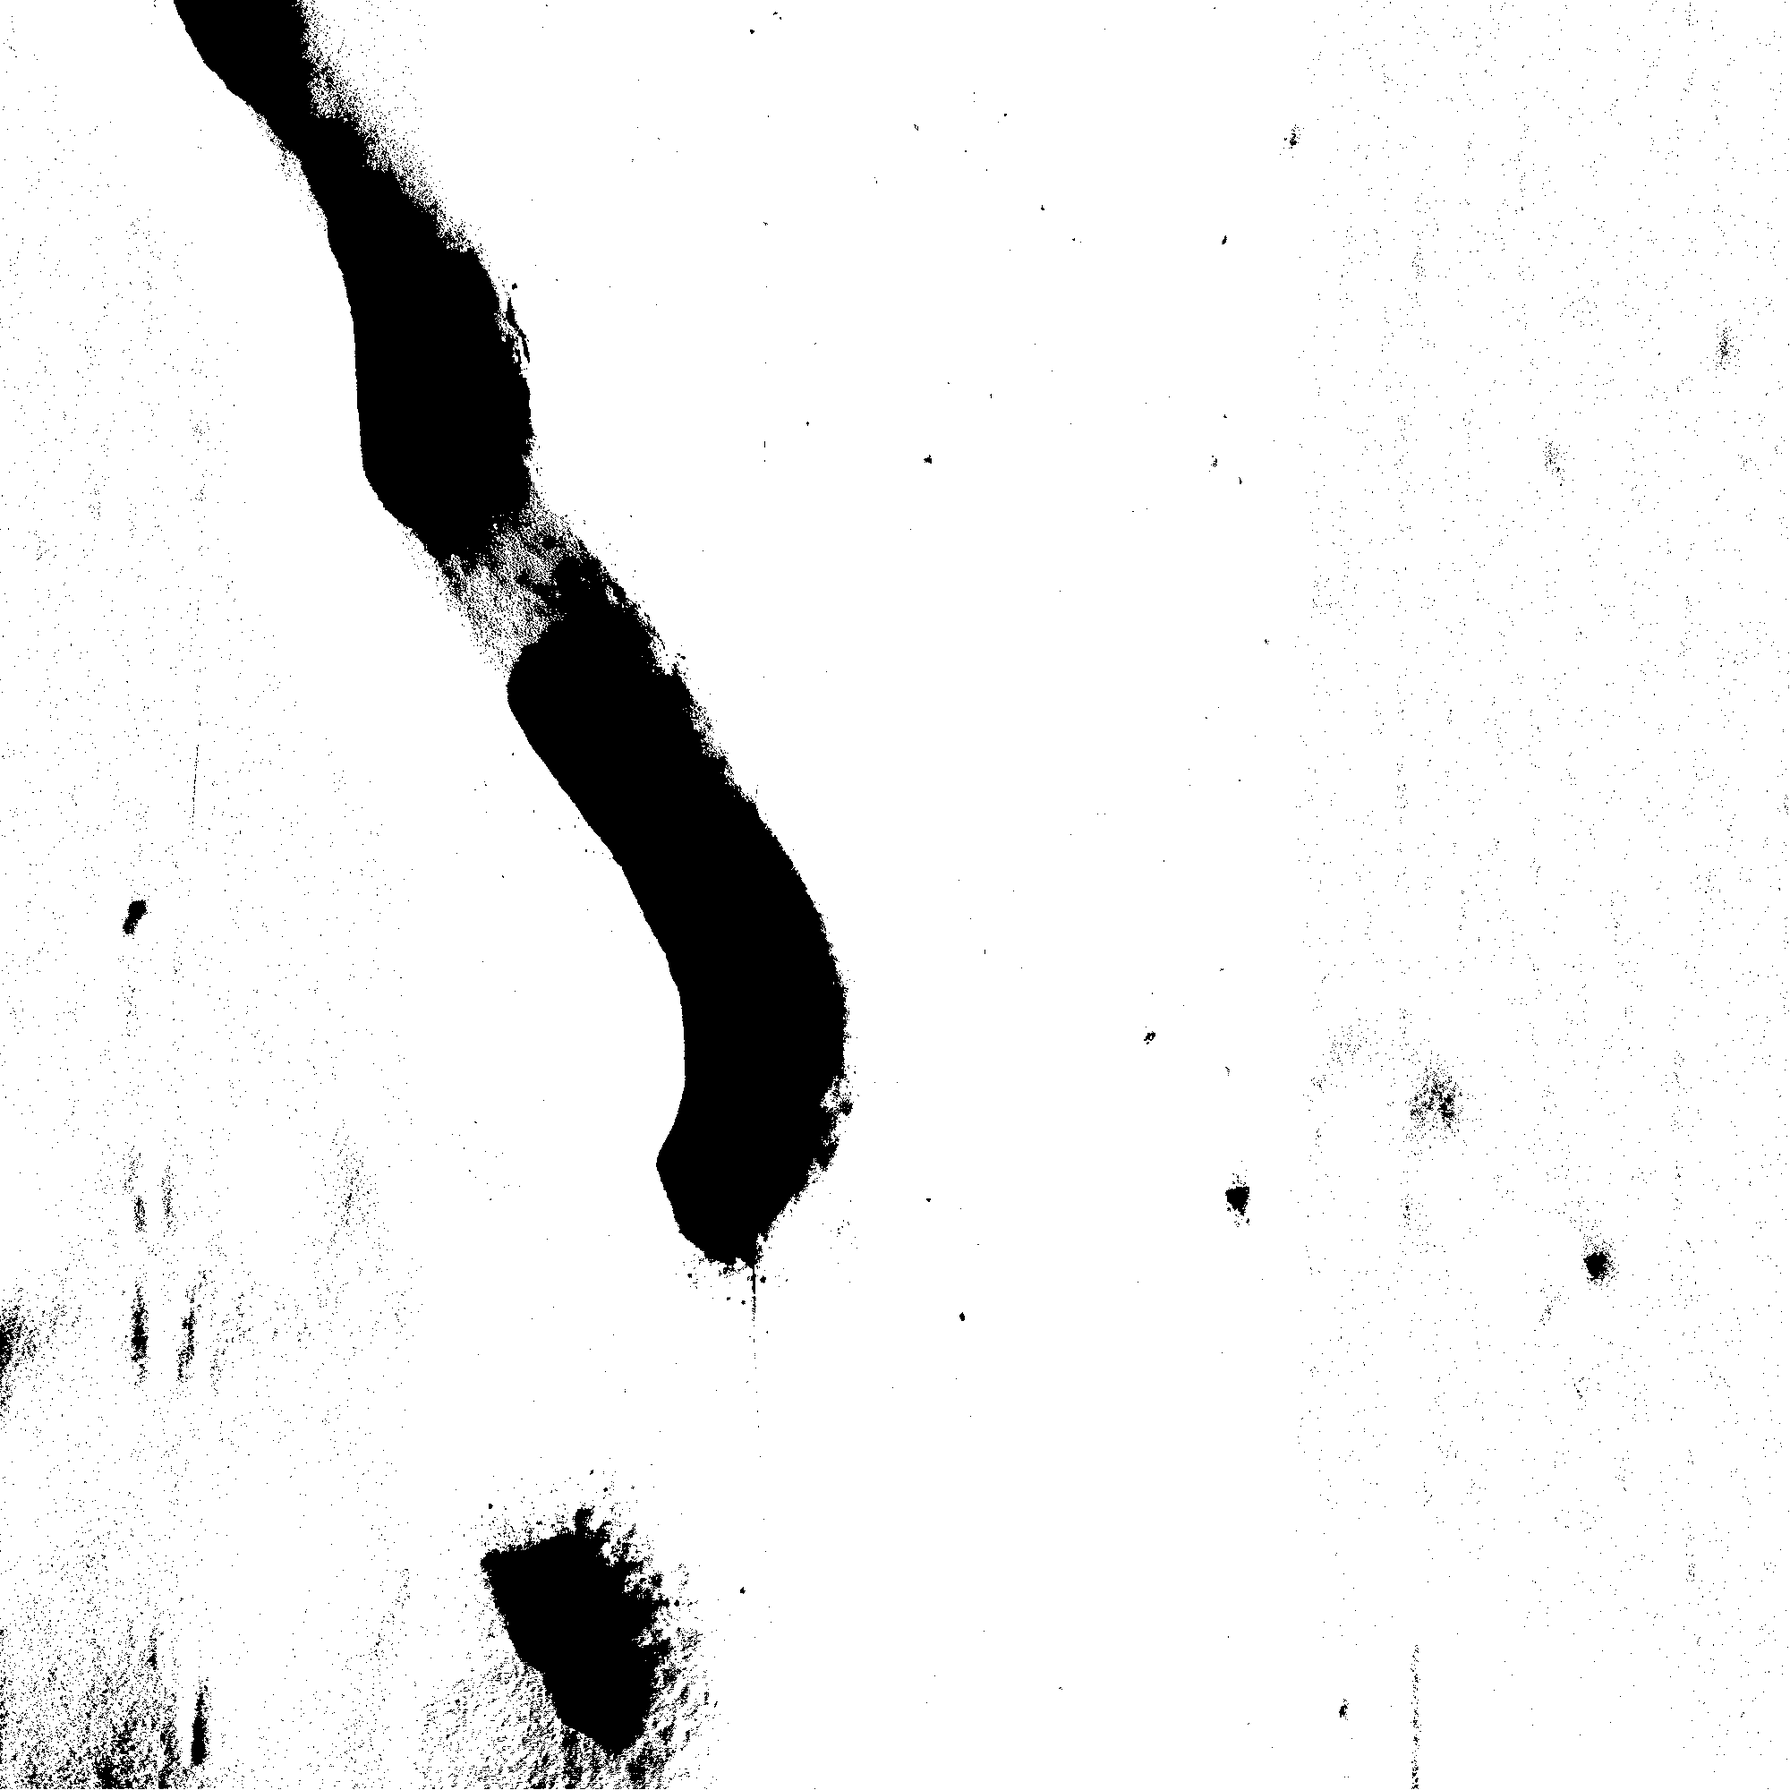
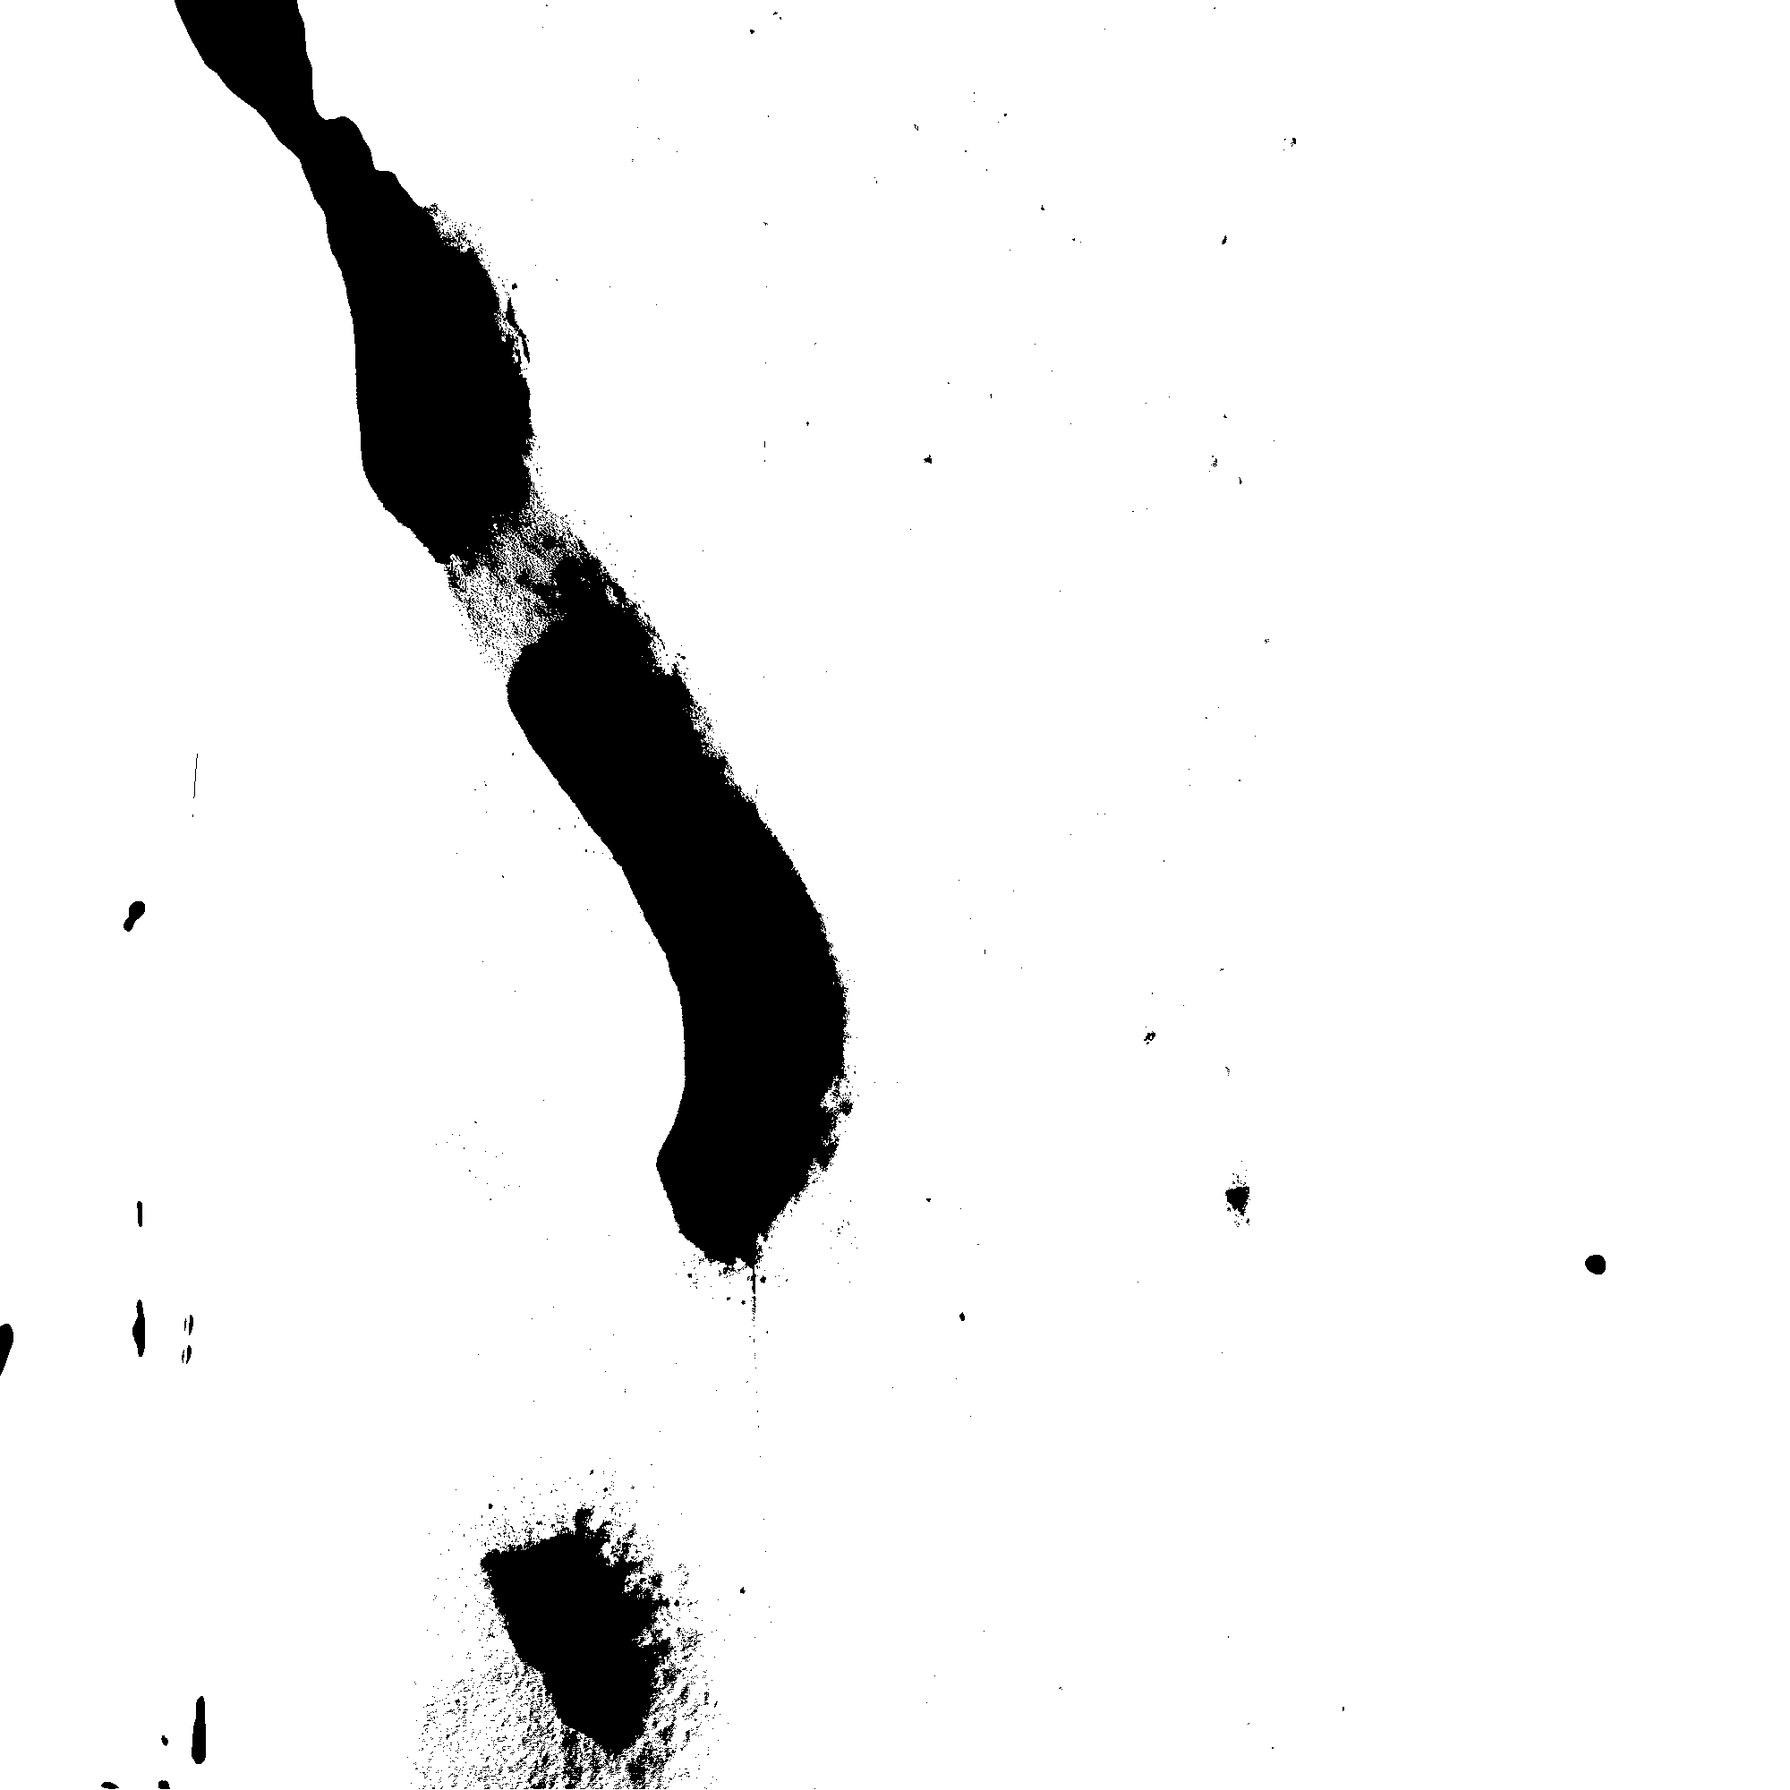
Faster first load: physics chunk in parallel, data preloaded from HTML, 5.7 MB less
- Rapier (4.3 MB with its inlined WebAssembly) is now a separate chunk loaded in
  parallel; the main script went from 5.4 MB to 1.07 MB, so the title screen and
  progress appear at once instead of after ~7 s of a blank page.
- An inline script in index.html starts the terrain downloads (same versioned
  URLs) before any game code arrives; each file is fetched exactly once.
- Lunar heightmap 13.8 -> 8.0 MB: the seeded roughness of the SLDEM-filled
  edges (incompressible noise, 40 % of the file) is generated at run time for
  mesh and physics alike, from a 10 kB DTM-weight map.
Cold load at 20 Mbit/s: everything starts at 0.1 s; data is the only limit.

diff --git a/src/terrain/TerrainData.ts b/src/terrain/TerrainData.ts
@@ -30,6 +30,8 @@ export interface TerrainMeta {
   detail?: { x0: number; z0: number; tile: number; res: number; tiles: string[]; slopes?: boolean };
   /** Surface material map (Mars): 255 = rocky pavement, 0 = sand. */
   material?: { file: string; n: number; pave?: string };
+  /** Run-time roughness where the DTM is missing (SLDEM-filled edges): weight map + std, m. */
+  synthRough?: { file: string; n: number; std: number };
   centerLat: number;
   centerLon: number;
   landing: { x: number; z: number };
@@ -65,6 +67,26 @@ export function hash2(x: number, y: number, seed = 0): number {
   return ((h ^ (h >>> 16)) >>> 0) / 4294967296;
 }
 
+/** Smooth value noise on an integer lattice (C1, quintic fade). */
+function vnoise(x: number, z: number, seed: number): number {
+  const i = Math.floor(x), j = Math.floor(z);
+  const fx = x - i, fz = z - j;
+  const u = fx * fx * fx * (fx * (fx * 6 - 15) + 10), v = fz * fz * fz * (fz * (fz * 6 - 15) + 10);
+  const a = hash2(i, j, seed), b = hash2(i + 1, j, seed), c = hash2(i, j + 1, seed), d = hash2(i + 1, j + 1, seed);
+  return a + (b - a) * u + (c - a) * v + (a - b - c + d) * u * v - 0.5;
+}
+
+/** Roughness octaves 120 m … 4 m, amplitude ∝ λ^1.1 (the DTM's k^-2.2 power spectrum). */
+function roughRaw(x: number, z: number): number {
+  let s = 0, lam = 120, k = 0;
+  while (lam >= 4) {
+    s += vnoise(x / lam + k * 13.7, z / lam - k * 7.1, 900 + k) * Math.pow(lam, 1.1);
+    lam *= 0.5;
+    k++;
+  }
+  return s;
+}
+
 const CRATER_SEED = 1971; // Apollo 15 year
 const CRATER_COUNT = 5500;
 const CRATER_RMIN = 1.2;
@@ -89,10 +111,24 @@ export class TerrainData {
 
   /** Material map over the window (0 sand .. 255 pavement) and the pavement pattern. */
   readonly material: Uint8Array | null;
+  /** DTM weight (0 = SLDEM fill .. 255 = measured DTM) for the run-time roughness. */
+  readonly dtmW: Uint8Array | null;
+  private roughK = 0;
   readonly pave: Uint8Array | null;
 
-  constructor(meta: TerrainMeta, heights: Uint16Array, far: FarGrid | null = null, material: Uint8Array | null = null, pave: Uint8Array | null = null) {
+  constructor(meta: TerrainMeta, heights: Uint16Array, far: FarGrid | null = null, material: Uint8Array | null = null, pave: Uint8Array | null = null, dtmW: Uint8Array | null = null) {
     this.material = material;
+    this.dtmW = dtmW;
+    if (dtmW && meta.synthRough) {
+      // Normalise the octave sum to the DTM's measured roughness (std over random points).
+      let s2 = 0;
+      const r = mulberry32(77);
+      for (let i = 0; i < 4096; i++) {
+        const v = roughRaw((r() - 0.5) * 8000, (r() - 0.5) * 8000);
+        s2 += v * v;
+      }
+      this.roughK = meta.synthRough.std / Math.sqrt(s2 / 4096);
+    }
     this.pave = material ? (pave ?? buildPavement()) : null;
     this.meta = meta;
     this.heights = heights;
@@ -273,6 +309,19 @@ export class TerrainData {
     return (a + (b - a) * fu + (c - a) * fv + (a - b - c + d) * fu * fv) / 255;
   }
 
+  /** Seeded DTM-like roughness (4–120 m) where the DTM is missing, weighted by 1 − DTM weight. */
+  synthRough(x: number, z: number): number {
+    const m = this.dtmW;
+    if (!m || !this.roughK) return 0;
+    const n = this.meta.synthRough!.n;
+    const u = ((x + this.halfX) / this.meta.sizeX) * n - 0.5, v = ((z + this.halfZ) / this.meta.sizeZ) * n - 0.5;
+    const i = Math.max(0, Math.min(n - 2, Math.floor(u))), j = Math.max(0, Math.min(n - 2, Math.floor(v)));
+    const fu = Math.min(1, Math.max(0, u - i)), fv = Math.min(1, Math.max(0, v - j));
+    const a = m[j * n + i], b = m[j * n + i + 1], c = m[(j + 1) * n + i], d = m[(j + 1) * n + i + 1];
+    const w = (a + (b - a) * fu + (c - a) * fv + (a - b - c + d) * fu * fv) / 255;
+    return w >= 0.999 ? 0 : (1 - w) * roughRaw(x, z) * this.roughK;
+  }
+
   /** Centimetre relief of the fractured pavement plates, weighted by the material. */
   microOffset(x: number, z: number): number {
     if (!this.pave) return 0;
@@ -287,7 +336,7 @@ export class TerrainData {
     }
     const w = this.dtmWeight(x, z);
     if (w <= 0) return this.farHeight(x, z);
-    const near = this.dtmHeight(x, z) + this.craterOffset(x, z) + this.microOffset(x, z);
+    const near = this.dtmHeight(x, z) + this.craterOffset(x, z) + this.microOffset(x, z) + this.synthRough(x, z);
     return w >= 1 ? near : near * w + this.farHeight(x, z) * (1 - w);
   }
 
@@ -370,5 +419,21 @@ export async function loadTerrainData(base: string, onProgress?: (f: number) => 
       pave = null;
     }
   }
-  return new TerrainData(meta, heights, far, material, pave);
+  let dtmW: Uint8Array | null = null;
+  if (meta.synthRough) {
+    try {
+      const r = await fetch(dataUrl(`${base}${meta.synthRough.file}`));
+      const bmp = await createImageBitmap(await r.blob(), { colorSpaceConversion: 'none', premultiplyAlpha: 'none' });
+      const n = meta.synthRough.n;
+      const c = new OffscreenCanvas(n, n);
+      const g = c.getContext('2d', { willReadFrequently: true })!;
+      g.drawImage(bmp, 0, 0, n, n);
+      const d = g.getImageData(0, 0, n, n).data;
+      dtmW = new Uint8Array(n * n);
+      for (let i = 0; i < dtmW.length; i++) dtmW[i] = d[i * 4];
+    } catch {
+      dtmW = null;
+    }
+  }
+  return new TerrainData(meta, heights, far, material, pave, dtmW);
 }

diff --git a/vite.config.ts b/vite.config.ts
@@ -27,11 +27,36 @@ import { VitePWA } from 'vite-plugin-pwa';
 // GitHub Pages serves the site from /<repo>/; override with BASE_PATH for other hosts.
 const base = process.env.BASE_PATH ?? '/moon-rover/';
 
+const DATA_VERSION = dataVersion();
+
+/**
+ * Start the big terrain downloads from the HTML itself, before the game code has
+ * even arrived (they used to begin only after ~1 MB of JS was fetched and run).
+ * The URLs carry the same ?v= hash as the game's own requests, so the game picks
+ * up these responses instead of downloading again.
+ */
+function preloadData() {
+  return {
+    name: 'preload-data',
+    transformIndexHtml(html: string) {
+      const script = `<script>(function(){try{
+var q=new URLSearchParams(location.search).get('world'),w=q;
+if(!w){try{w=(JSON.parse(localStorage.getItem('moon-rover-settings')||'{}').world)}catch(e){}}
+var d=w==='mars'?'data/mars/':'data/',v='?v=${DATA_VERSION}';
+function l(f,as){var e=document.createElement('link');e.rel='preload';e.as=as;e.href=d+f+v;e.crossOrigin='anonymous';if(as==='fetch')e.setAttribute('fetchpriority','high');document.head.appendChild(e)}
+l('terrain.json','fetch');l('heightmap.png','fetch');l('ortho.jpg','image');l('ortho_hi.jpg','image');l('shadow.png','image');
+}catch(e){}})();</script>`;
+      return html.replace('<head>', `<head>
+    ${script}`);
+    },
+  };
+}
+
 export default defineConfig({
   base,
   define: {
     // Build stamp shown on the title screen (which version is really running).
-    __DATA_VERSION__: JSON.stringify(dataVersion()),
+    __DATA_VERSION__: JSON.stringify(DATA_VERSION),
     __APP_BUILD__: JSON.stringify(new Date().toISOString().slice(0, 16).replace('T', ' ')),
   },
   build: {
@@ -40,6 +65,7 @@ export default defineConfig({
   },
   worker: { format: 'es' },
   plugins: [
+    preloadData(),
     VitePWA({
       // Own service worker (src/sw.ts): network-first page, see the comment there.
       // The output keeps the name sw.js so phones with the old worker pick it up as an update.

diff --git a/src/main.ts b/src/main.ts
@@ -6,7 +6,6 @@ import { Game } from './Game';
 import type { WeatherMode } from './fx/MarsWeather';
 import { detectLang, LANGS, setLang, setVariant, t, type Lang } from './i18n';
 import type { Action } from './input/Input';
-import { Physics } from './physics/Physics';
 import { loadNasaModel } from './rover/models/nasa';
 import { ROVERS, roversFor } from './rover/specs';
 import { loadTerrainData } from './terrain/TerrainData';
@@ -126,6 +125,9 @@ const mark = (what: string) => console.info(`[load] ${what} ${((performance.now(
 
 async function boot(): Promise<void> {
   loadText.textContent = t('loading');
+  // The physics engine (Rapier, ~4 MB with its WebAssembly) is a separate chunk,
+  // downloaded in parallel with the terrain data instead of before anything shows.
+  const physicsModule = import('./physics/Physics');
   const D = `${BASE}${W.dataDir}`;
   const moon = W.id === 'moon';
   const bin = (name: string) =>
@@ -148,6 +150,7 @@ async function boot(): Promise<void> {
   // Official NASA models (LM at the Apollo site; Perseverance and Ingenuity on Mars).
   await Promise.all((moon ? (['lm'] as const) : (['perseverance', 'ingenuity'] as const)).map((m) => loadNasaModel(m).catch((e) => console.warn('[models]', m, e))));
   loadText.textContent = t('loadPhysics');
+  const { Physics } = await physicsModule;
   const physics = await Physics.create(terrain);
   mark('physics');
 

diff --git a/src/terrain/TerrainRenderer.ts b/src/terrain/TerrainRenderer.ts
@@ -712,7 +712,7 @@ normal = normalize((viewMatrix * vec4(nW, 0.0)).xyz);`,
     const nWorkers = Math.max(1, Math.min(3, (navigator.hardwareConcurrency || 2) - 1));
     for (let i = 0; i < nWorkers; i++) {
       const w = new Worker(new URL('./terrainWorker.ts', import.meta.url), { type: 'module' });
-      w.postMessage({ type: 'init', meta, heights: terrain.heights, far: terrain.far, material: terrain.material, pave: terrain.pave });
+      w.postMessage({ type: 'init', meta, heights: terrain.heights, far: terrain.far, material: terrain.material, pave: terrain.pave, dtmW: terrain.dtmW });
       w.onmessage = (e: MessageEvent<BuildResult>) => this.onBuilt(i, e.data);
       this.workers.push(w);
       this.busy.push(0);

diff --git a/src/terrain/terrainWorker.ts b/src/terrain/terrainWorker.ts
@@ -34,7 +34,7 @@ export interface BuildResult {
 self.onmessage = (e: MessageEvent) => {
   const msg = e.data;
   if (msg.type === 'init') {
-    terrain = new TerrainData(msg.meta as TerrainMeta, msg.heights as Uint16Array, msg.far ?? null, msg.material ?? null, msg.pave ?? null);
+    terrain = new TerrainData(msg.meta as TerrainMeta, msg.heights as Uint16Array, msg.far ?? null, msg.material ?? null, msg.pave ?? null, msg.dtmW ?? null);
     return;
   }
   if (msg.type === 'build' && terrain) {

diff --git a/src/Game.ts b/src/Game.ts
@@ -12,7 +12,7 @@ import { Sky } from './fx/Sky';
 import { Tracks } from './fx/Tracks';
 import { Hud } from './hud/Hud';
 import { Input } from './input/Input';
-import { Physics } from './physics/Physics';
+import type { Physics } from './physics/Physics';
 import { APOLLO15_EVA1, lunarSky } from './astro/ephemeris';
 import { setSurfacePhotometry } from './render/lunar';
 import { ShadowBaker } from './render/ShadowBaker';

diff --git a/tools/prepare_terrain.py b/tools/prepare_terrain.py
@@ -120,18 +120,6 @@ def sample_sldem(lat, lon):
     return ndimage.map_coordinates(sub, [r - r0, c - c0], order=3, mode="nearest")
 
 
-def roughness_noise(shape, target_std, seed=1971):
-    """Seeded fractal noise with a k^-2.2 spectrum between 4 and 120 m wavelengths."""
-    rng = np.random.default_rng(seed)
-    n = rng.standard_normal(shape)
-    fy = np.fft.fftfreq(shape[0], d=PX)[:, None]
-    fx = np.fft.rfftfreq(shape[1], d=PX)[None, :]
-    k = np.sqrt(fx * fx + fy * fy)
-    amp = np.where((k > 1 / 120) & (k < 1 / 4), (k + 1e-9) ** -1.1, 0.0)
-    f = np.fft.irfft2(np.fft.rfft2(n) * amp, s=shape)
-    return f / f.std() * target_std
-
-
 def merge_sldem(h, valid, lat, lon):
     sl = sample_sldem(lat, lon)
     # Smoothly varying vertical offset DTM - SLDEM, extrapolated outside the strip.
@@ -145,13 +133,15 @@ def merge_sldem(h, valid, lat, lon):
     # DTM roughness below SLDEM resolution: std of DTM minus its 60 m low-pass.
     hp = (h - ndimage.gaussian_filter(np.where(valid, h, base), 15))[valid]
     rough = float(np.std(hp[np.abs(hp) < np.percentile(np.abs(hp), 99)]))
-    synth = base + roughness_noise(h.shape, rough)
+    # The roughness (DTM-like spectrum) is NOT stored: incompressible noise was 40 % of
+    # the heightmap download. The game adds the same seeded roughness at run time where
+    # the DTM weight is < 1 (TerrainData.synthRough), for the mesh and the physics alike.
     dist = ndimage.distance_transform_edt(valid) * PX
     w = np.clip(dist / BLEND_M, 0, 1)
     w = w * w * (3 - 2 * w)
-    out = np.where(valid, h * w + synth * (1 - w), synth)
+    out = np.where(valid, h * w + base * (1 - w), base)
     print(f"SLDEM merge: DTM-SLDEM offset mean {diff[valid].mean():.1f} m, roughness std {rough:.2f} m")
-    return out, w
+    return out, w, rough
 
 
 def read_ortho(transform, shape):
@@ -292,7 +282,7 @@ def main():
     zz, xx = np.meshgrid(coords, coords, indexing="ij")
     lat = lat_c - np.degrees(zz / MOON_R)
     lon = lon_c + np.degrees(xx / (MOON_R * COS_SP))
-    h, wdtm = merge_sldem(h, valid, lat, lon)
+    h, wdtm, rough = merge_sldem(h, valid, lat, lon)
 
     hmin, hmax = float(h.min()), float(h.max())
     print(f"Height range: {hmin:.1f} .. {hmax:.1f} m")
@@ -303,6 +293,8 @@ def main():
     Image.fromarray(q, mode="I;16").save(os.path.join(OUT, "heightmap.png"), optimize=True)
     # DTM weight (1 = measured at 2 m, 0 = SLDEM + synthetic detail), for docs and debugging.
     Image.fromarray((wdtm[::4, ::4] * 255).astype(np.uint8)).save(os.path.join(RAW, "dtm_weight.png"))
+    # DTM weight for the run-time roughness (1000², a few kB).
+    Image.fromarray((wdtm[::4, ::4] * 255).astype(np.uint8)).save(os.path.join(OUT, "dtm_weight.png"), optimize=True)
 
     ortho = read_ortho(transform, (SIZE, SIZE))
     ortho = synth_albedo(ortho, valid)
@@ -342,6 +334,7 @@ def main():
         "minHeight": hmin,
         "maxHeight": hmax,
         "heightStep": HSTEP,
+        "synthRough": {"file": "dtm_weight.png", "n": SIZE // 4, "std": round(rough, 3)},
         "centerLat": lat_c,
         "centerLon": lon_c,
         "projection": {"radius": MOON_R, "standardParallel": 26.0},
@@ -356,8 +349,9 @@ def main():
     old = os.path.join(OUT, "terrain.json")
     if os.path.exists(old):
         prev = json.load(open(old, encoding="utf-8"))
-        if "galaxy" in prev:
-            meta["galaxy"] = prev["galaxy"]
+        for k in ("galaxy", "detail"):  # written by prepare_sky.py / prepare_detail.py
+            if k in prev:
+                meta[k] = prev[k]
     with open(old, "w") as f:
         json.dump(meta, f, indent=2)
     for k, v in sites.items():
